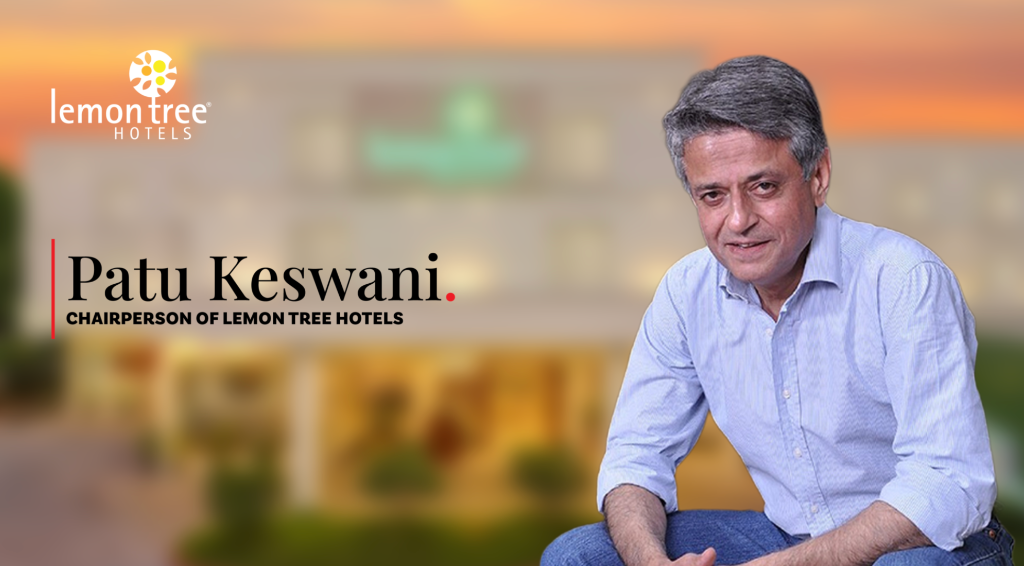
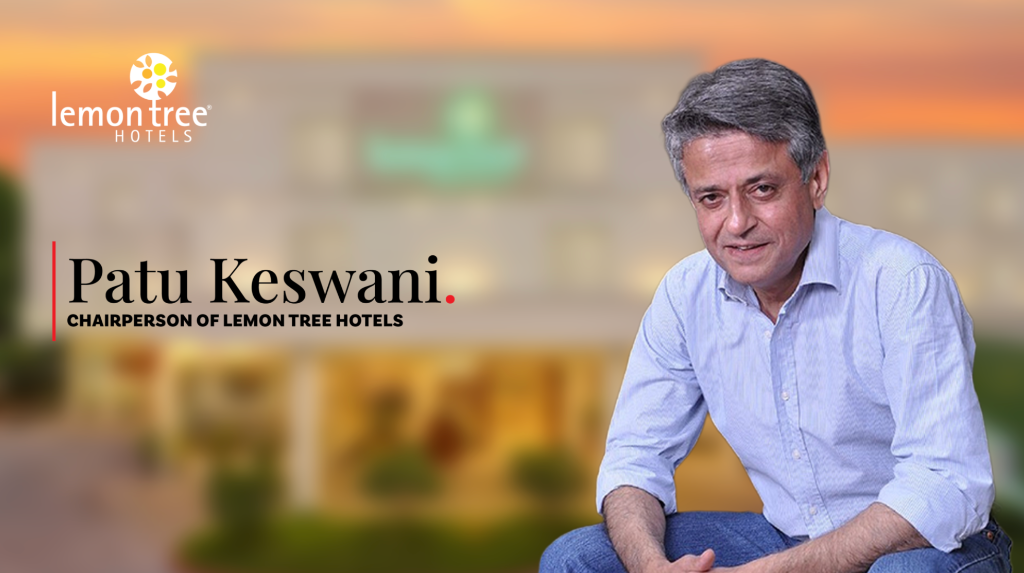
Publish Vedantu FY26 business insight and feature Patu Keswani founder story

diff --git a/src/data/personalities.ts b/src/data/personalities.ts
@@ -40,6 +40,49 @@ export const categories: Category[] = [
 
 export const personalities: Personality[] = [
   {
+    id: "patu-keswani-lemon-tree-hotels",
+    name: "Patu Keswani",
+    title: "Founder & Chairman, Lemon Tree Hotels",
+    category: "Entrepreneurs & Founders",
+    categorySlug: "entrepreneurs",
+    image: "/images/founder-stories/patu-keswani-lemon-tree.png",
+    born: "1959",
+    profession: "Hospitality Entrepreneur and Chairman of Lemon Tree Hotels",
+    knownFor: "Pioneering organized mid-market hospitality in India and building Lemon Tree Hotels into an empire of over 100 hotels while championing disability inclusion.",
+    quote: "Dignity, opportunity, and purpose can be built into the very architecture of enterprise.",
+    story: `At the dawn of the twenty-first century, as India’s economy was accelerating into a new era of globalization, the nation's hospitality sector was defined by extreme polarization. At one end stood grand, opulent five-star luxury hotels catering to corporate elites and foreign dignitaries. At the other end lay unbranded, unhygienic lodges that compromised on safety, cleanliness, and basic human dignity.
+
+For the burgeoning wave of young Indian professionals, business travellers, and middle-class families, reliable accommodation was an elusive dream. Patanjali "Patu" Keswani observed this gaping market void and made an audacious decision: build a brand that would deliver 60% of the five-star experience at just 30% of the cost.
+
+Keswani was armed with an extraordinary academic and corporate pedigree. An alumnus of IIT Delhi (Electrical Engineering) and IIM Calcutta (MBA), he was selected into the prestigious Tata Administrative Services (TAS) in 1983. Over the next seventeen years, Keswani rose through the ranks at the Tata Group, eventually serving as Senior Vice President at Taj Hotels, followed by a lucrative leadership stint at global management consulting firm A.T. Kearney.
+
+Yet in 2002, at age 39, he walked away from corporate prestige and financial comfort to build Lemon Tree Hotels from scratch. Backed initially by his personal life savings and support from family and friends, Keswani opened his first modest 49-room hotel in Gurugram in May 2004. 
+
+The market response was explosive. Travellers instantly embraced the refreshing, vibrant aesthetic, immaculate cleanliness, and honest pricing. By 2006, marquee private equity giant Warburg Pincus invested in the company, fueling rapid expansion. Over the ensuing two decades, Keswani built a comprehensive multi-tier hospitality platform—spanning Lemon Tree Premier, Red Fox Hotels for budget travellers, and Aurika Hotels & Resorts for upscale leisure—taking the company public in 2018 and acquiring Keys Hotels in 2019. Today, Lemon Tree operates over 100 hotels across more than 60 cities.
+
+Beyond commercial success, Keswani revolutionized corporate purpose in India. Early on, after hiring hearing-impaired staff and witnessing firsthand how steady employment restored independence and dignity to marginalized families, inclusion became the bedrock of Lemon Tree. Today, a significant percentage of Lemon Tree’s workforce consists of persons with disabilities (hearing, speech, and physical impairments) and individuals from underserved backgrounds, winning national accolades and proving that compassionate inclusion can be a powerful driver of business excellence.`,
+    achievements: [
+      "Founded Lemon Tree Hotels in 2002, pioneering modern mid-market business hospitality in India",
+      "Built an empire of over 100 hotels across 60+ cities through brands like Lemon Tree Premier, Red Fox, and Aurika",
+      "Led Lemon Tree Hotels to a successful public listing on the Indian stock exchanges in 2018",
+      "Established an industry-leading diversity program employing hundreds of persons with disabilities across hotel operations"
+    ],
+    authorName: "Inspire India Talks",
+    addedAt: "2026-11-03",
+    imageAlt: "Patu Keswani, Chairperson of Lemon Tree Hotels",
+    imageCaption: "Patu Keswani, who redefined Indian mid-market hospitality and inclusive employment through Lemon Tree Hotels.",
+    imageCredit: "The Founders Stories",
+    imageSourceUrl: "https://thefoundersstories.com/uncategorized/patu-keswani-lemon-tree-hotels/",
+    sources: [
+      {
+        title: "The Founders Stories: Patu Keswani – Lemon Tree Hotels",
+        url: "https://thefoundersstories.com/uncategorized/patu-keswani-lemon-tree-hotels/",
+        publishedAt: "2026-03-09",
+        accessedAt: "2026-11-03"
+      }
+    ]
+  },
+  {
     id: "m-a-yusuff-ali-lulu-group",
     name: "M. A. Yusuff Ali",
     title: "Chairman & Managing Director, LuLu Group International",
@@ -83,49 +126,6 @@ Beyond commercial triumphs, Yusuff Ali is celebrated as an exceptional humanitar
         url: "https://thefoundersstories.com/uncategorized/m-a-yusuff-ali-the-boy-who-built-a-%e2%82%b930000-crore-empire/",
         publishedAt: "2026-03-09",
         accessedAt: "2026-11-02"
-      }
-    ]
-  },
-  {
-    id: "patu-keswani-lemon-tree-hotels",
-    name: "Patu Keswani",
-    title: "Founder & Chairman, Lemon Tree Hotels",
-    category: "Entrepreneurs & Founders",
-    categorySlug: "entrepreneurs",
-    image: "/images/founder-stories/patu-keswani-lemon-tree.png",
-    born: "1959",
-    profession: "Hospitality Entrepreneur and Chairman of Lemon Tree Hotels",
-    knownFor: "Pioneering organized mid-market hospitality in India and building Lemon Tree Hotels into an empire of over 100 hotels while championing disability inclusion.",
-    quote: "Dignity, opportunity, and purpose can be built into the very architecture of enterprise.",
-    story: `At the dawn of the twenty-first century, as India’s economy was accelerating into a new era of globalization, the nation's hospitality sector was defined by extreme polarization. At one end stood grand, opulent five-star luxury hotels catering to corporate elites and foreign dignitaries. At the other end lay unbranded, unhygienic lodges that compromised on safety, cleanliness, and basic human dignity.
-
-For the burgeoning wave of young Indian professionals, business travellers, and middle-class families, reliable accommodation was an elusive dream. Patanjali "Patu" Keswani observed this gaping market void and made an audacious decision: build a brand that would deliver 60% of the five-star experience at just 30% of the cost.
-
-Keswani was armed with an extraordinary academic and corporate pedigree. An alumnus of IIT Delhi (Electrical Engineering) and IIM Calcutta (MBA), he was selected into the prestigious Tata Administrative Services (TAS) in 1983. Over the next seventeen years, Keswani rose through the ranks at the Tata Group, eventually serving as Senior Vice President at Taj Hotels, followed by a lucrative leadership stint at global management consulting firm A.T. Kearney.
-
-Yet in 2002, at age 39, he walked away from corporate prestige and financial comfort to build Lemon Tree Hotels from scratch. Backed initially by his personal life savings and support from family and friends, Keswani opened his first modest 49-room hotel in Gurugram in May 2004. 
-
-The market response was explosive. Travellers instantly embraced the refreshing, vibrant aesthetic, immaculate cleanliness, and honest pricing. By 2006, marquee private equity giant Warburg Pincus invested in the company, fueling rapid expansion. Over the ensuing two decades, Keswani built a comprehensive multi-tier hospitality platform—spanning Lemon Tree Premier, Red Fox Hotels for budget travellers, and Aurika Hotels & Resorts for upscale leisure—taking the company public in 2018 and acquiring Keys Hotels in 2019. Today, Lemon Tree operates over 100 hotels across more than 60 cities.
-
-Beyond commercial success, Keswani revolutionized corporate purpose in India. Early on, after hiring hearing-impaired staff and witnessing firsthand how steady employment restored independence and dignity to marginalized families, inclusion became the bedrock of Lemon Tree. Today, a significant percentage of Lemon Tree’s workforce consists of persons with disabilities (hearing, speech, and physical impairments) and individuals from underserved backgrounds, winning national accolades and proving that compassionate inclusion can be a powerful driver of business excellence.`,
-    achievements: [
-      "Founded Lemon Tree Hotels in 2002, pioneering modern mid-market business hospitality in India",
-      "Built an empire of over 100 hotels across 60+ cities through brands like Lemon Tree Premier, Red Fox, and Aurika",
-      "Led Lemon Tree Hotels to a successful public listing on the Indian stock exchanges in 2018",
-      "Established an industry-leading diversity program employing hundreds of persons with disabilities across hotel operations"
-    ],
-    authorName: "Inspire India Talks",
-    addedAt: "2026-11-01",
-    imageAlt: "Patu Keswani, Chairperson of Lemon Tree Hotels",
-    imageCaption: "Patu Keswani, who redefined Indian mid-market hospitality and inclusive employment through Lemon Tree Hotels.",
-    imageCredit: "The Founders Stories",
-    imageSourceUrl: "https://thefoundersstories.com/uncategorized/patu-keswani-lemon-tree-hotels/",
-    sources: [
-      {
-        title: "The Founders Stories: Patu Keswani – Lemon Tree Hotels",
-        url: "https://thefoundersstories.com/uncategorized/patu-keswani-lemon-tree-hotels/",
-        publishedAt: "2026-03-09",
-        accessedAt: "2026-11-01"
       }
     ]
   },

diff --git a/src/data/businessinsights.ts b/src/data/businessinsights.ts
@@ -35,6 +35,43 @@ export interface BusinessInsight extends EditorialImageMetadata {
 
 export const businessinsights: BusinessInsight[] = [
   {
+    id: "vedantu-revenue-grows-17-to-267-cr-fy26-cuts-losses",
+    title: "Vedantu Revenue Grows 17% to Rs 267 Cr in FY26; Cuts Losses Before Exceptional Items",
+    date: "03-11-2026",
+    category: "EdTech / Startups",
+    image: "/images/business-insights/vedantu-fy26-financials.png",
+    excerpt: "Edtech unicorn Vedantu grew its operating revenue by 17.6% to Rs 267 crore in FY26 while reducing losses before exceptional items by 18.6% to Rs 171 crore, supported by disciplined cost control.",
+    readTime: "2 min read",
+    featured: false,
+    imageAlt: "Vedantu offline learning center and online master classes",
+    imageCaption: "Vedantu expanded its top-line to Rs 267 crore in FY26 while keeping overheads flat, trimming operational losses to Rs 171 crore.",
+    imageCredit: "Entrackr",
+    imageSourceUrl: "https://entrackr.com/fintrackr/vedantu-revenue-grows-17-to-rs-267-cr-in-fy26-cuts-losses-before-exceptional-items-12778184",
+    sources: [
+      {
+        title: "Entrackr: Vedantu revenue grows 17% to Rs 267 Cr in FY26; cuts losses before exceptional items",
+        url: "https://entrackr.com/fintrackr/vedantu-revenue-grows-17-to-rs-267-cr-in-fy26-cuts-losses-before-exceptional-items-12778184",
+        publishedAt: "2026-11-02",
+        accessedAt: "2026-11-03"
+      }
+    ],
+    content: `Bengaluru-based edtech unicorn Vedantu demonstrated notable operational recovery during the fiscal year ending March 2026 (FY26), recording double-digit top-line growth while reining in expenditures and narrowing operational losses.
+
+According to consolidated financial statements reviewed by Entrackr, Vedantu's revenue from operations rose 17.6% year-on-year to Rs 267 crore in FY26, compared to Rs 227 crore in FY25. Including other non-operating income of Rs 3.8 crore, the company recorded total income of Rs 270 crore.
+
+Core tuition and online tutoring fees continued to anchor the platform's cash generation, climbing 16.8% to Rs 222 crore from Rs 190 crore in the preceding fiscal year. Revenue from ancillary educational products—including books, uniforms, and learning kits—jumped 31.8% to Rs 29 crore, while income from specialized e-learning projects contributed Rs 6.3 crore.
+
+Crucially, Vedantu achieved this revenue acceleration while maintaining tight fiscal discipline on expenses. Total expenses for FY26 stood virtually flat at Rs 442 crore, compared to the prior year:
+• Employee benefit costs, which previously constituted the heaviest burn rate, shrank 12.8% to Rs 191 crore from Rs 219.5 crore (including non-cash ESOP charges of Rs 7.2 crore).
+• Outlays on contract resources and outsourced services rose 54.3% to Rs 71 crore, giving the company greater operational elasticity.
+• Depreciation charges declined 5.8% to Rs 65 crore.
+• Marketing and promotional expenditures were maintained conservatively, edging up 7.4% to Rs 29 crore, while IT and technology infrastructure expenses stood at Rs 12 crore.
+
+With top-line growth outpacing costs, Vedantu's net loss before exceptional items and tax contracted 18.6% to Rs 171 crore in FY26 from Rs 210 crore in FY25. The company closed the financial year with healthy cash and bank balances of Rs 77.25 crore and total current assets of Rs 160 crore.
+
+Vedantu's improved fundamentals come at a pivotal juncture for India's edtech ecosystem. In the wake of Byju's dramatic collapse and Unacademy's operational consolidation, the competitive landscape has shifted fundamentally from cash-guzzling customer acquisition towards sustainable unit economics, hybrid learning centers, and measurable student outcomes. Backed by marquee investors including ABC World Asia, Accel, and Omidyar, Vedantu's steady march towards cash sustainability signals a maturing chapter for India's post-pandemic edtech sector.`,
+  },
+  {
     id: "yulu-reports-281-cr-revenue-97-cr-loss-fy26",
     title: "Yulu Reports Rs 281 Cr Revenue and Rs 97 Cr Loss in FY26",
     date: "02-11-2026",
